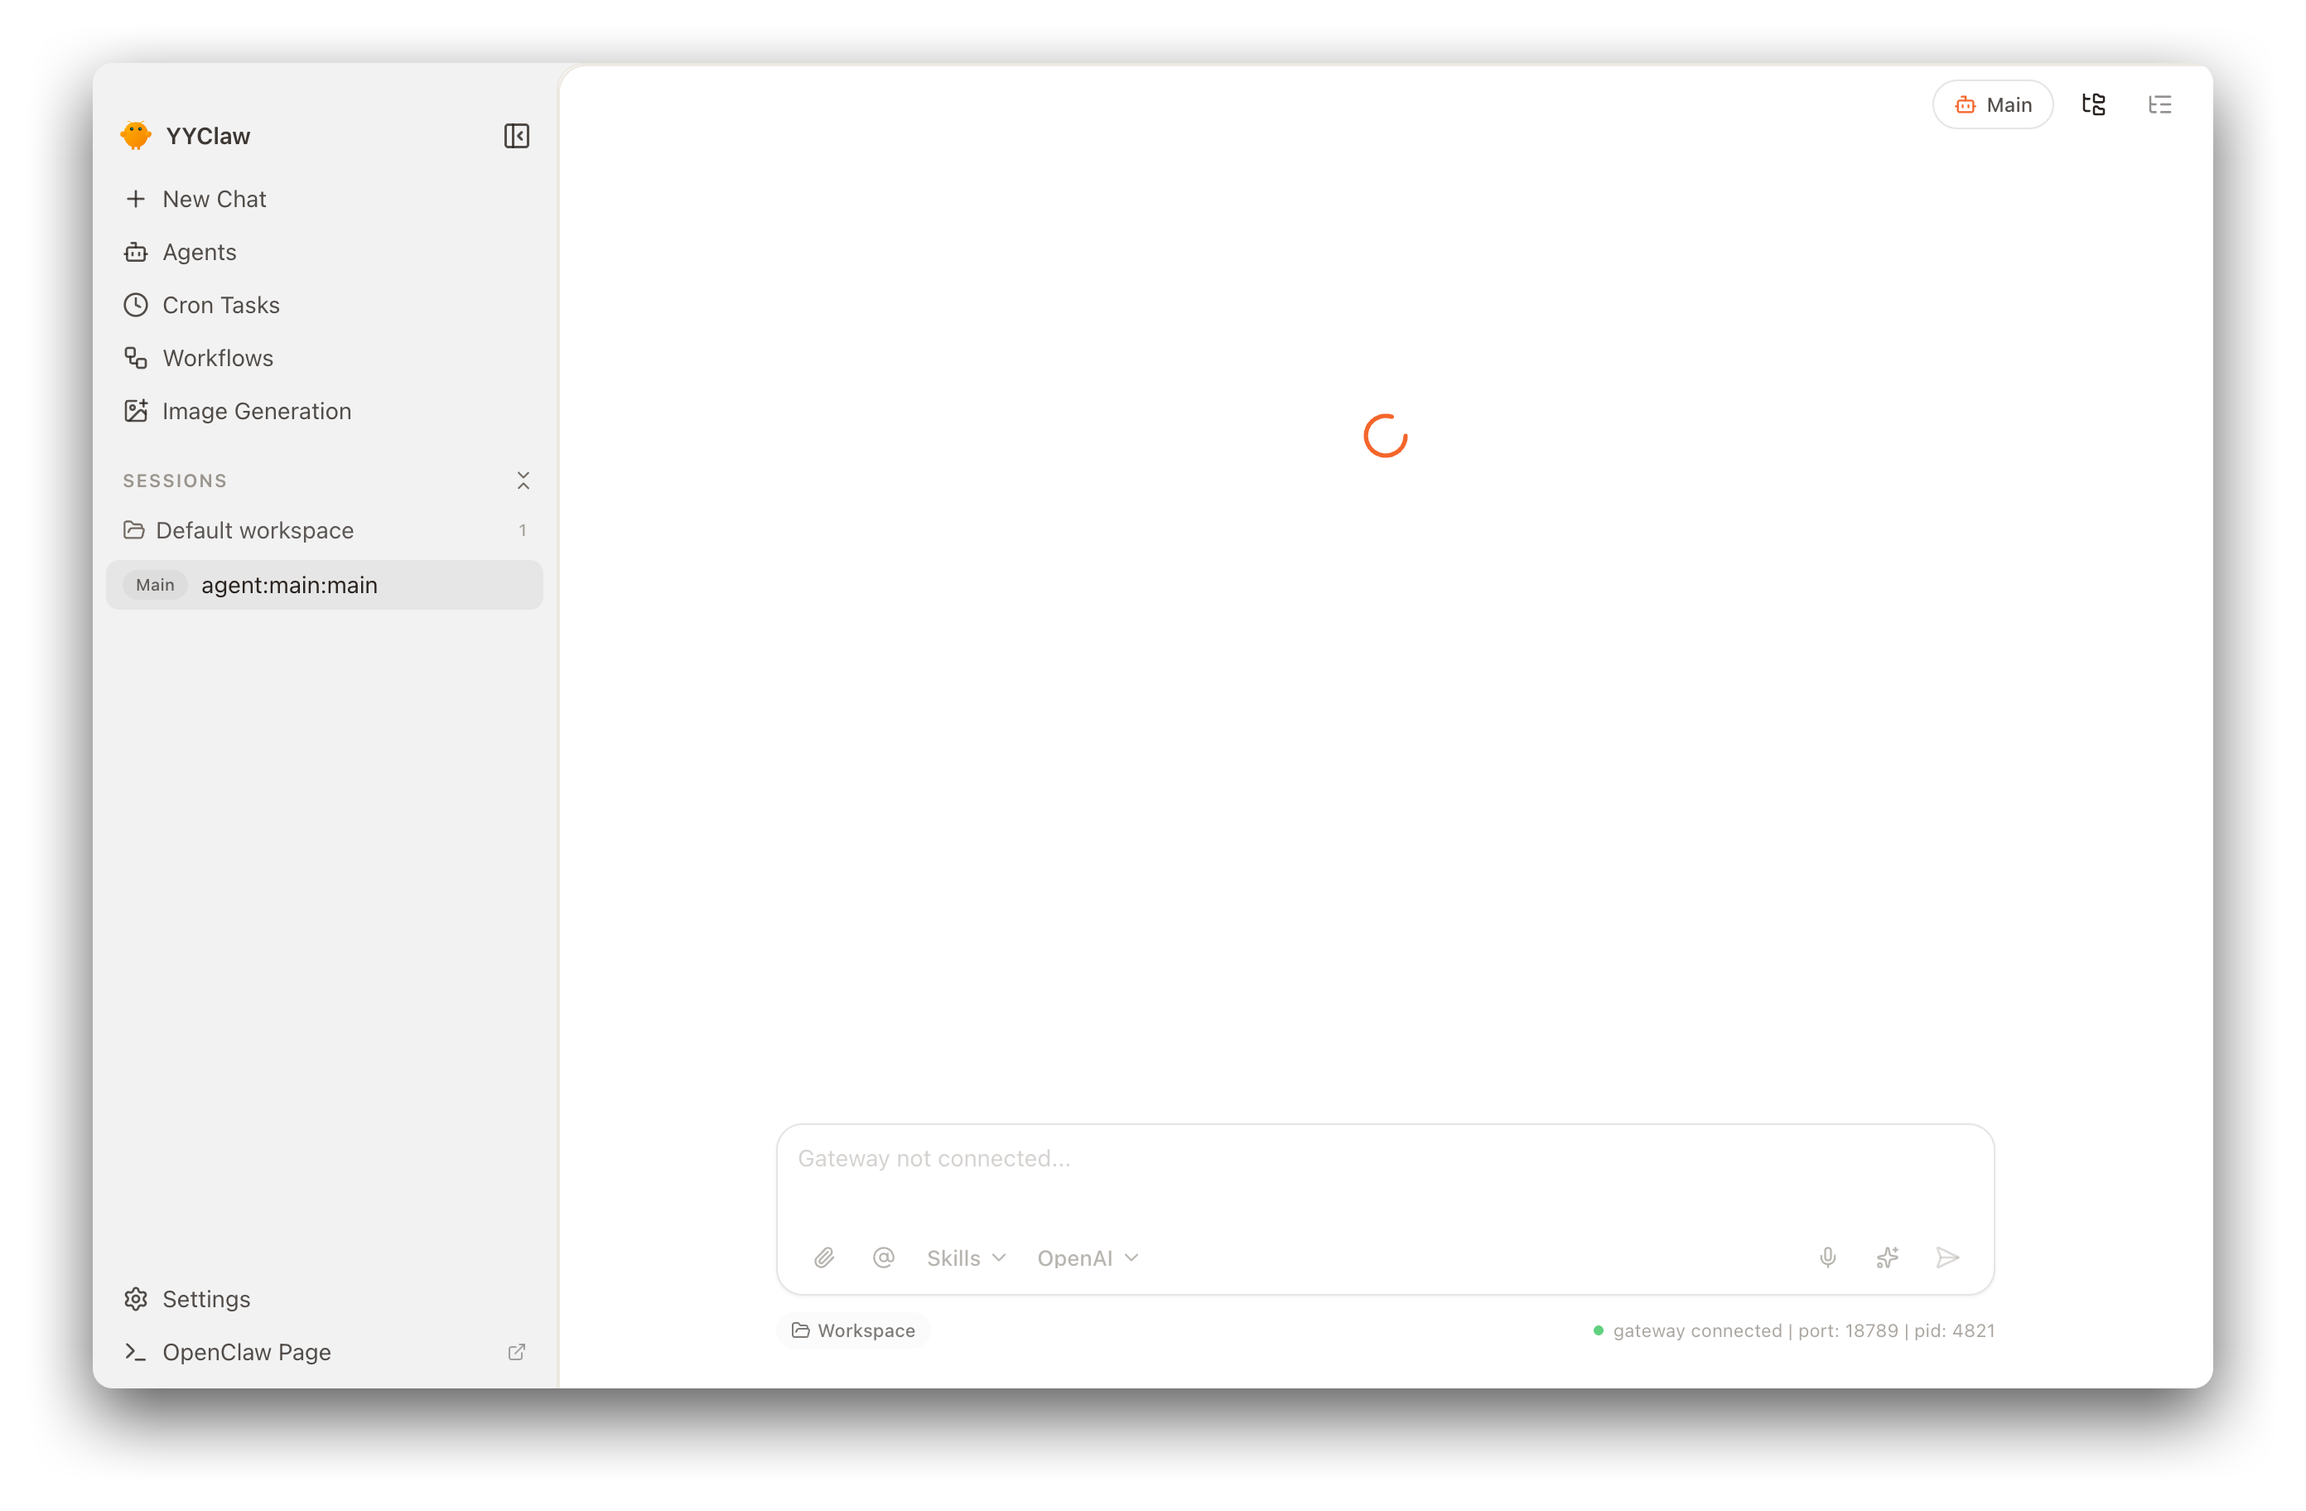
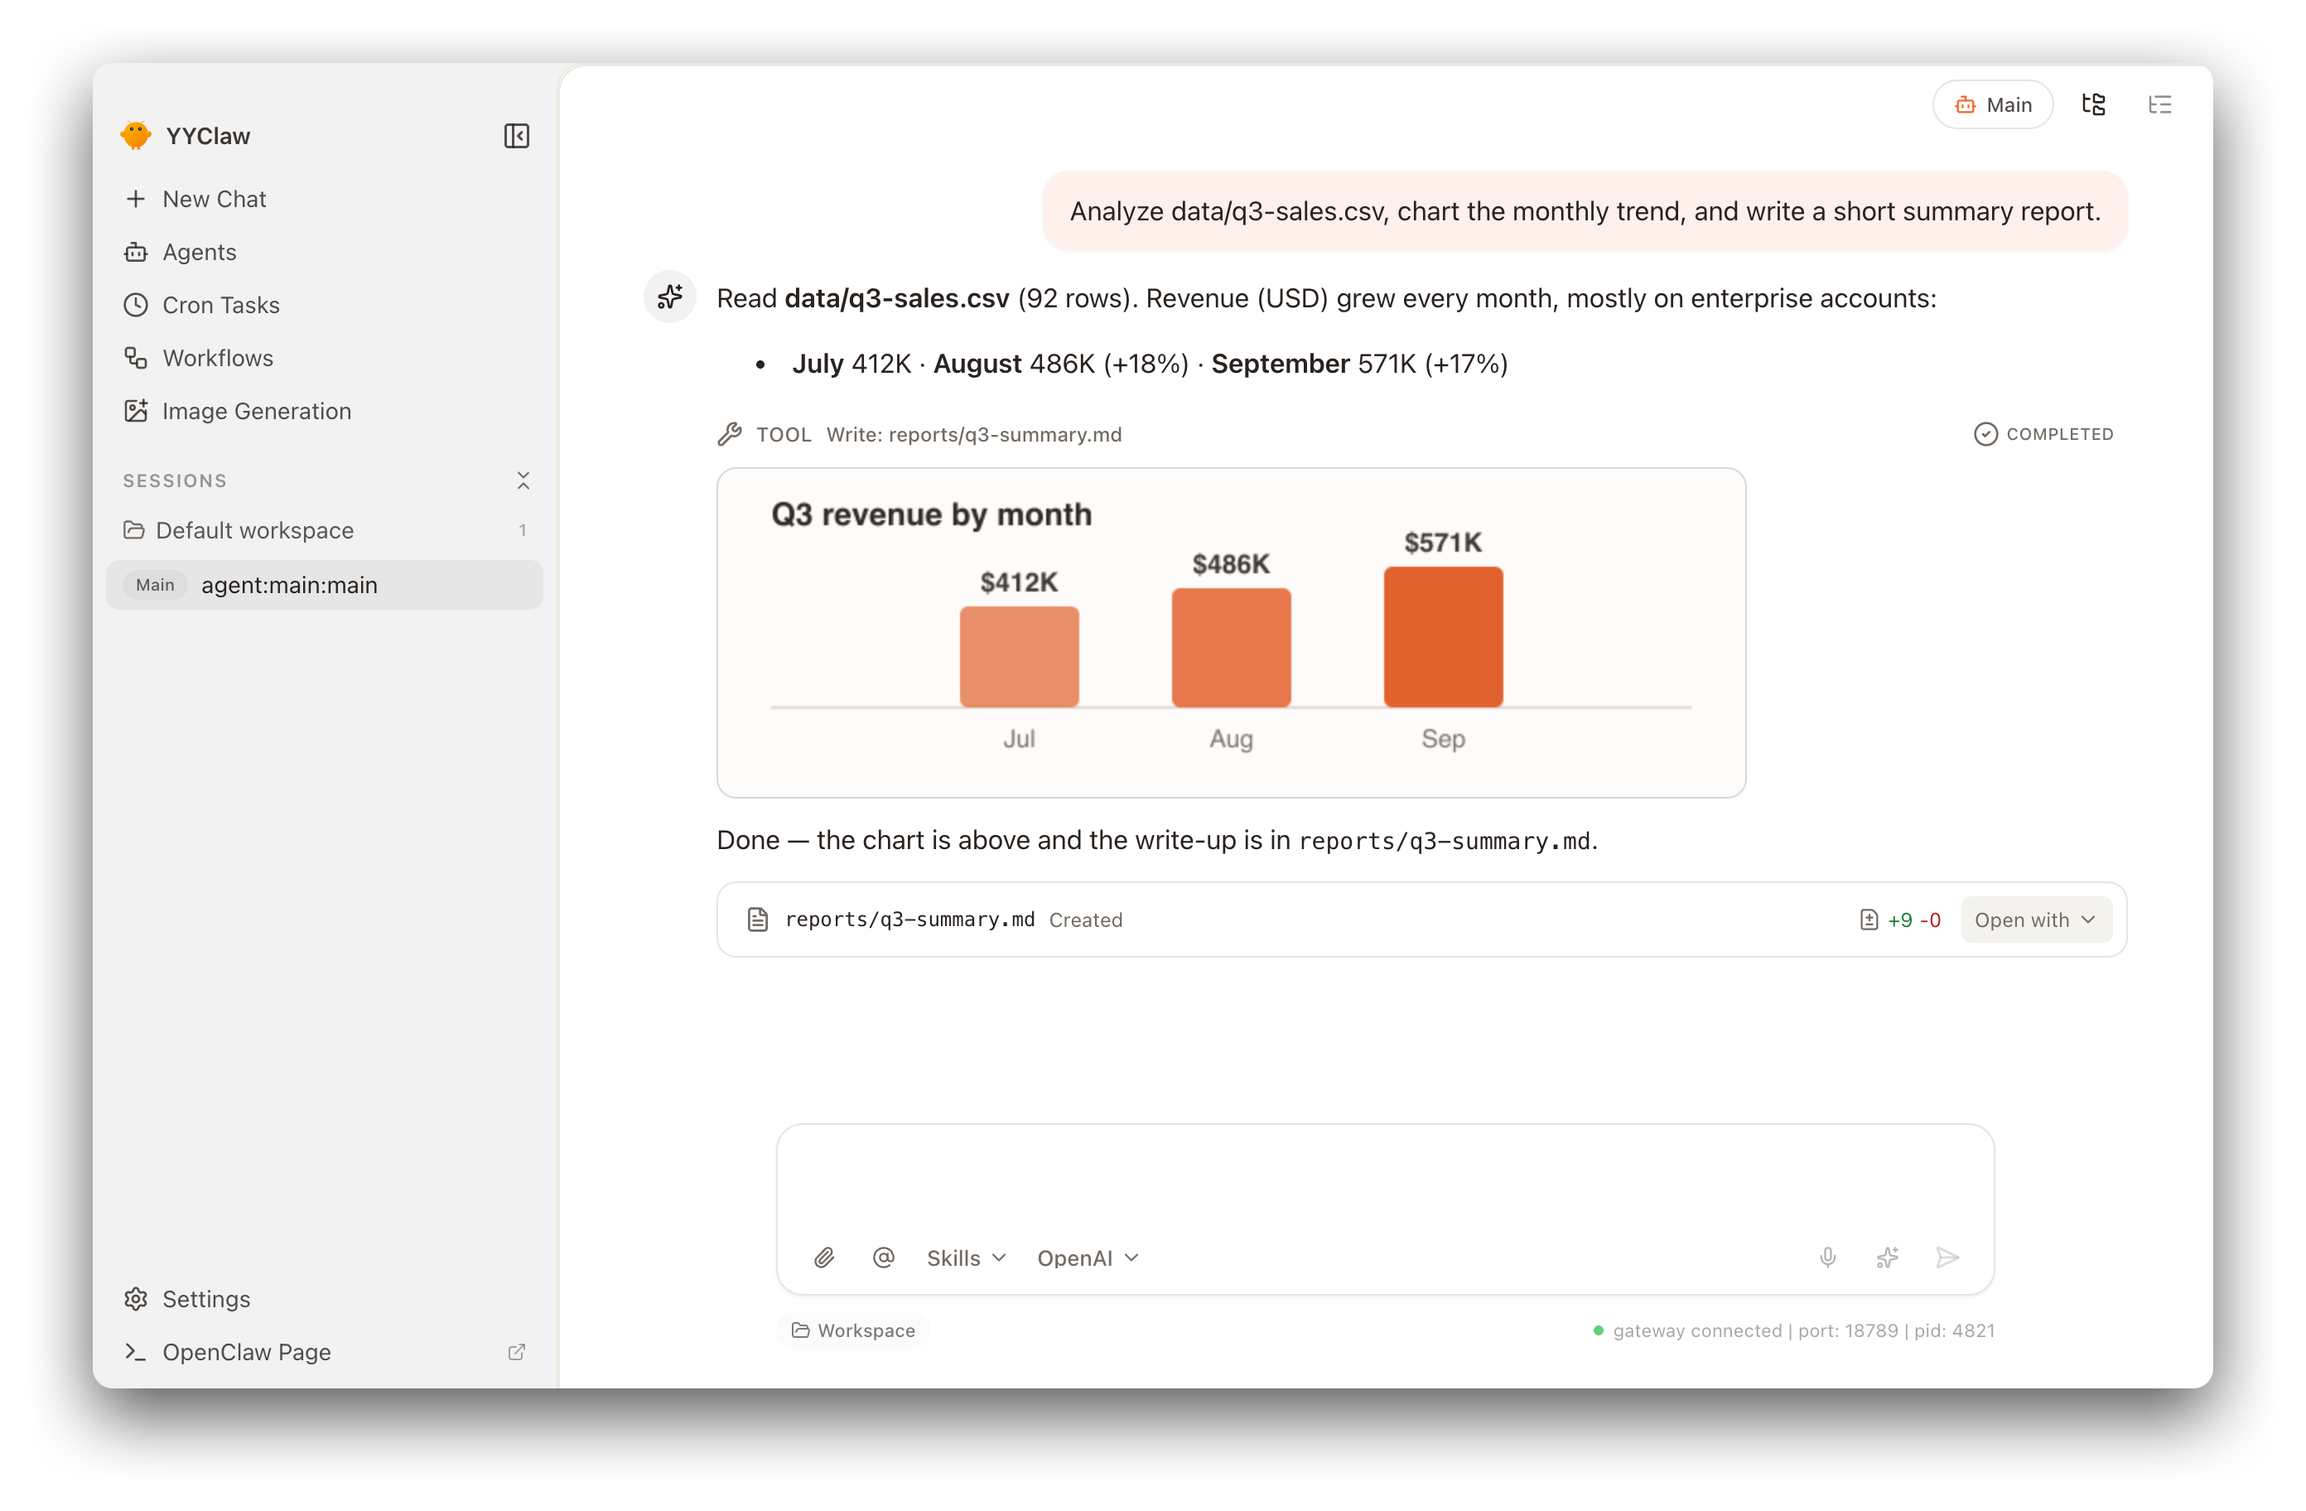
chore: update screenshot generation process and enhance documentation
- Modified `FEATURELIST.md` to include details about seeded chat conversations in screenshot generation.
- Updated `development.md` to reflect changes in the screenshot capture process, including the seeding of chat content.
- Added seeded chat conversation data for multiple locales in `capture-readme-screenshots.spec.ts` to improve the quality of generated screenshots.
- Adjusted the layout sensitivity notes for seeded content to ensure proper display across different locales.

diff --git a/tests/e2e/capture-readme-screenshots.spec.ts b/tests/e2e/capture-readme-screenshots.spec.ts
@@ -1,7 +1,14 @@
 import { mkdir } from 'node:fs/promises';
 import { join } from 'node:path';
 import type { ElectronApplication, Page } from '@playwright/test';
-import { completeSetup, expect, installIpcMocks, test } from './fixtures/electron';
+import sharp from 'sharp';
+import {
+  completeSetup,
+  emitAcpSessionUpdates,
+  expect,
+  installIpcMocks,
+  test,
+} from './fixtures/electron';
 import { E2E_SCREENSHOT_TAG } from './parallel-policy';
 
 /**
@@ -219,6 +226,172 @@ const SKILLS = {
   ],
 };
 
+const MAIN_SESSION_KEY = 'agent:main:main';
+const MAIN_WORKSPACE = '/Users/you/Workspace';
+
+/**
+ * Seeded chat conversation per locale.
+ *
+ * The chat surface is the first screenshot most readers look at, so it needs to
+ * show what the product actually does rather than an empty session: a request, a
+ * tool run, prose with Markdown, a produced file, and generated image media.
+ */
+const CHAT_CONTENT = {
+  en: {
+    request: 'Analyze data/q3-sales.csv, chart the monthly trend, and write a short summary report.',
+    analysis: [
+      'Read **data/q3-sales.csv** (92 rows). Revenue (USD) grew every month, mostly on enterprise accounts:',
+      '',
+      '- **July** 412K · **August** 486K (+18%) · **September** 571K (+17%)',
+    ].join('\n'),
+    closing: 'Done — the chart is above and the write-up is in `reports/q3-summary.md`.',
+    chartTitle: 'Q3 revenue by month',
+    months: ['Jul', 'Aug', 'Sep'],
+    barLabels: ['$412K', '$486K', '$571K'],
+    writeTool: 'Write: reports/q3-summary.md',
+  },
+  zh: {
+    request: '分析 data/q3-sales.csv，画出月度趋势图，并写一份简短的总结报告。',
+    analysis: [
+      '已读取 **data/q3-sales.csv**（92 行），本季度营收逐月增长，主要来自企业客户：',
+      '',
+      '- **7 月** 41.2 万 · **8 月** 48.6 万（+18%）· **9 月** 57.1 万（+17%）',
+    ].join('\n'),
+    closing: '完成 —— 图表见上方，完整分析写入了 `reports/q3-summary.md`。',
+    chartTitle: '第三季度月度营收',
+    months: ['7 月', '8 月', '9 月'],
+    barLabels: ['41.2 万', '48.6 万', '57.1 万'],
+    writeTool: 'Write: reports/q3-summary.md',
+  },
+  jp: {
+    request: 'data/q3-sales.csv を分析して、月次トレンドをグラフにし、短いサマリーレポートを書いてください。',
+    analysis: [
+      '**data/q3-sales.csv**（92 行）を読みました。売上は毎月伸びており、主にエンタープライズ顧客によるものです。',
+      '',
+      '- **7月** 41.2万ドル · **8月** 48.6万ドル（+18%）· **9月** 57.1万ドル（+17%）',
+    ].join('\n'),
+    closing: '完了しました。グラフは上のとおりで、詳細は `reports/q3-summary.md` に書き出しています。',
+    chartTitle: '第3四半期の月次売上',
+    months: ['7月', '8月', '9月'],
+    barLabels: ['41.2万', '48.6万', '57.1万'],
+    writeTool: 'Write: reports/q3-summary.md',
+  },
+  ru: {
+    request: 'Проанализируй data/q3-sales.csv, построй график по месяцам и напиши сводку.',
+    analysis: [
+      'Прочитал **data/q3-sales.csv** (92 строки). Выручка (USD) росла каждый месяц:',
+      '',
+      '- **Июль** 412K · **Август** 486K (+18%) · **Сентябрь** 571K (+17%)',
+    ].join('\n'),
+    closing: 'Готово — график выше, а разбор записан в `reports/q3-summary.md`.',
+    chartTitle: 'Выручка за 3-й квартал по месяцам',
+    months: ['Июл', 'Авг', 'Сен'],
+    barLabels: ['412K', '486K', '571K'],
+    writeTool: 'Write: reports/q3-summary.md',
+  },
+} as const;
+
+const REPORT_MARKDOWN = [
+  '# Q3 revenue summary',
+  '',
+  '| Month | Revenue | Change |',
+  '|-------|---------|--------|',
+  '| July | $412,000 | — |',
+  '| August | $486,000 | +18% |',
+  '| September | $571,000 | +17% |',
+  '',
+  'Enterprise accounts contributed 63% of the quarter-over-quarter increase.',
+].join('\n');
+
+/**
+ * Render the "generated" chart as a real PNG so the inline image part has
+ * content. Kept deliberately short (620x198) so the whole exchange — request,
+ * tool runs, prose, chart and produced file — fits the 1280x800 viewport without
+ * scrolling the earlier turns out of frame.
+ */
+async function chartPngBase64(content: (typeof CHAT_CONTENT)[keyof typeof CHAT_CONTENT]): Promise<string> {
+  const values = [412, 486, 571];
+  const max = 620;
+  const width = 620;
+  const height = 198;
+  const plotTop = 52;
+  const plotBottom = 144;
+  const barWidth = 72;
+  const gap = 56;
+  const startX = (width - (values.length * barWidth + (values.length - 1) * gap)) / 2;
+
+  const bars = values.map((value, index) => {
+    const barHeight = Math.round((value / max) * (plotBottom - plotTop));
+    const x = Math.round(startX + index * (barWidth + gap));
+    const y = plotBottom - barHeight;
+    return [
+      `<rect x="${x}" y="${y}" width="${barWidth}" height="${barHeight}" rx="5" fill="#e2622f" opacity="${0.72 + index * 0.14}"/>`,
+      `<text x="${x + barWidth / 2}" y="${y - 9}" text-anchor="middle" font-family="Helvetica, Arial, sans-serif" font-size="16" font-weight="600" fill="#3f3a35">${content.barLabels[index]}</text>`,
+      `<text x="${x + barWidth / 2}" y="${plotBottom + 24}" text-anchor="middle" font-family="Helvetica, Arial, sans-serif" font-size="15" fill="#7a736c">${content.months[index]}</text>`,
+    ].join('');
+  }).join('');
+
+  const svg = `<svg width="${width}" height="${height}" xmlns="http://www.w3.org/2000/svg">`
+    + `<rect width="${width}" height="${height}" rx="10" fill="#fdfcfa"/>`
+    + `<text x="32" y="34" font-family="Helvetica, Arial, sans-serif" font-size="19" font-weight="600" fill="#2f2b27">${content.chartTitle}</text>`
+    + `<line x1="32" y1="${plotBottom}" x2="${width - 32}" y2="${plotBottom}" stroke="#e4ded6" stroke-width="2"/>`
+    + bars
+    + '</svg>';
+
+  const png = await sharp(Buffer.from(svg)).png().toBuffer();
+  return png.toString('base64');
+}
+
+async function seedConversation(
+  app: ElectronApplication,
+  localeDir: keyof typeof CHAT_CONTENT,
+): Promise<void> {
+  const content = CHAT_CONTENT[localeDir];
+  const chart = await chartPngBase64(content);
+
+  await emitAcpSessionUpdates(app, {
+    sessionKey: MAIN_SESSION_KEY,
+    generation: 1,
+    updates: [
+      {
+        sessionUpdate: 'user_message',
+        messageId: 'shot-user',
+        content: [{ type: 'text', text: content.request }],
+      },
+      {
+        sessionUpdate: 'agent_message',
+        messageId: 'shot-analysis',
+        content: [{ type: 'text', text: content.analysis }],
+      },
+      {
+        sessionUpdate: 'tool_call',
+        toolCallId: 'shot-write',
+        title: content.writeTool,
+        status: 'in_progress',
+        rawInput: { path: 'reports/q3-summary.md', content: REPORT_MARKDOWN },
+        content: [],
+      },
+      {
+        sessionUpdate: 'tool_call_update',
+        toolCallId: 'shot-write',
+        status: 'completed',
+        rawInput: { path: 'reports/q3-summary.md', content: REPORT_MARKDOWN },
+        content: [],
+      },
+      {
+        sessionUpdate: 'agent_message',
+        messageId: 'shot-chart',
+        content: [{ type: 'image', mimeType: 'image/png', data: chart }],
+      },
+      {
+        sessionUpdate: 'agent_message',
+        messageId: 'shot-closing',
+        content: [{ type: 'text', text: content.closing }],
+      },
+    ],
+  });
+}
+
 function baseHostApi(localeDir: keyof typeof CRON_CONTENT) {
   return {
     [stableStringify(['/api/gateway/status', 'GET'])]: legacy(GATEWAY_STATUS),
@@ -237,6 +410,17 @@ function baseHostApi(localeDir: keyof typeof CRON_CONTENT) {
     [stableStringify(['providers', 'accountKeyInfo', null])]: PROVIDER_KEY_INFO,
     [stableStringify(['providers', 'getDefaultAccount', null])]: { accountId: 'openai-main' },
     [stableStringify(['skills', 'local', null])]: SKILLS,
+    // Accept the ACP session load for whichever workspace the renderer resolves,
+    // so the seeded conversation has a live generation to attach to.
+    ...Object.fromEntries([MAIN_WORKSPACE, '/', '~/.openclaw/workspace'].map((root) => [
+      stableStringify(['chat', 'loadAcpSession', {
+        sessionKey: MAIN_SESSION_KEY,
+        workspaceRoot: root,
+        cwd: root,
+      }]),
+      { success: true, generation: 1 },
+    ])),
+    [stableStringify(['sessions', 'summaries', { sessionKeys: [MAIN_SESSION_KEY] }])]: { summaries: [] },
   };
 }
 
@@ -283,7 +467,10 @@ for (const locale of LOCALES) {
     await completeSetup(page);
     await sizeWindow(electronApp);
 
-    // 1. Chat (default landing surface)
+    // 1. Chat (default landing surface) with a seeded conversation
+    await seedConversation(electronApp, locale.dir);
+    await expect(page.getByTestId('acp-chat-timeline')).toBeVisible({ timeout: 30_000 });
+    await expect(page.getByTestId('acp-image-part').locator('img')).toBeVisible();
     await shoot(page, locale.dir, 'chat');
 
     // 2. Cron

diff --git a/docs/FEATURELIST.md b/docs/FEATURELIST.md
@@ -58,8 +58,8 @@ tracked as GitHub issues.
 
 | Item | Notes |
 |------|-------|
-| Screenshots are generated with seeded mock data | `pnpm run screenshots` captures all 24 images from an isolated profile with mocked gateway/provider/skill/cron/channel data (`tests/e2e/capture-readme-screenshots.spec.ts`). The data is representative, not real. Re-run after any UI change that affects the six README surfaces |
-| Chat screenshot has no conversation | The chat capture shows an empty session; the composer still reads "Gateway not connected" because the composer gates on a readiness signal the mock does not satisfy. Seeding an ACP conversation via `emitAcpSessionUpdates` would improve it |
+| Screenshots are generated with seeded mock data | `pnpm run screenshots` captures all 24 images from an isolated profile with mocked gateway/provider/skill/cron/channel data and a seeded chat conversation (`tests/e2e/capture-readme-screenshots.spec.ts`). The data is representative, not real. Re-run after any UI change that affects the six README surfaces |
+| Seeded content is layout-sensitive | The chat conversation is tuned to fit the 1280×800 viewport without scrolling. Lengthening the prose, or a locale that wraps to an extra line, pushes the user's request out of frame — check every locale after editing `CHAT_CONTENT`. Avoid `$…$` pairs in seeded prose: the renderer treats them as KaTeX inline math (by design) |
 | No screenshots for several shipping pages | Setup wizard, Agents, Workflows, Image Generation, and the Memory tab have no screenshot in any locale |
 | Screenshot locale directories are inconsistently named | `resources/screenshot/{en,zh,jp,ru}` vs `docs/{en-US,zh-CN,ja-JP,ru-RU}` |
 | `tests/unit` is not typechecked | `tsconfig.test.json` covers only `tests/e2e/fixtures` (the shared harness). Extending it to every spec surfaces ~350 pre-existing loose-typing errors (inferred literals vs. declared mock shapes, missing vitest globals) that need cleanup first |

diff --git a/docs/en-US/development.md b/docs/en-US/development.md
@@ -156,8 +156,9 @@ That runs two steps, each also available on its own
 
 1. **Capture** — `tests/e2e/capture-readme-screenshots.spec.ts` launches Electron
    on an isolated profile, mocks the gateway/provider/skill/cron/channel data via
-   `installIpcMocks`, switches locale through the setup wizard's language buttons,
-   sizes the window to 1280×800 (2560×1600 at DPR 2), and writes each surface to
+   `installIpcMocks`, seeds a chat conversation through `emitAcpSessionUpdates`,
+   switches locale through the setup wizard's language buttons, sizes the window
+   to 1280×800 (2560×1600 at DPR 2), and writes each surface to
    `resources/screenshot/<locale>/`.
 2. **Decorate** — `scripts/decorate-screenshots.mjs` adds the rounded corners,
    drop shadow and transparent margin that a macOS window screenshot has,
@@ -173,6 +174,15 @@ runs every configured project, so a tag alone would not exclude it.
 Re-run this after any UI change that affects Chat, Cron, or the Models / Channels
 / Skills / General tabs of the System Settings modal. The seeded data is
 representative sample content, not real account data.
+
+Two constraints when editing the seeded content in `CHAT_CONTENT`:
+
+- The conversation is sized to fit the 1280×800 viewport without scrolling. Extra
+  prose — or a locale that wraps onto one more line — pushes the user's request
+  out of frame, so re-check all four locales after editing.
+- Avoid `$…$` pairs in seeded prose. The renderer parses them as KaTeX inline
+  math (that is intended app behavior), which turns figures like `$412K … $486K`
+  into an italic equation.
 
 ### Packaging Notes
 
